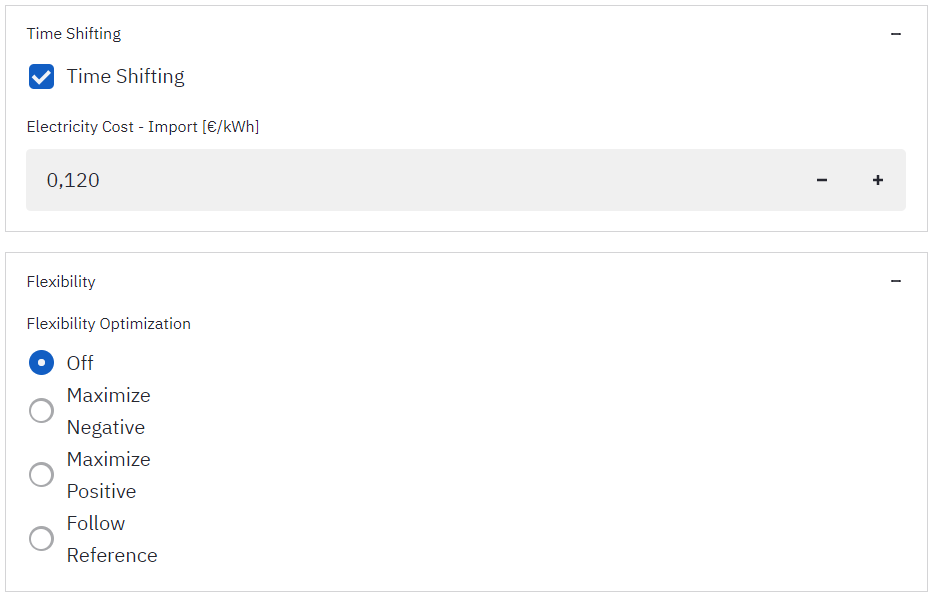
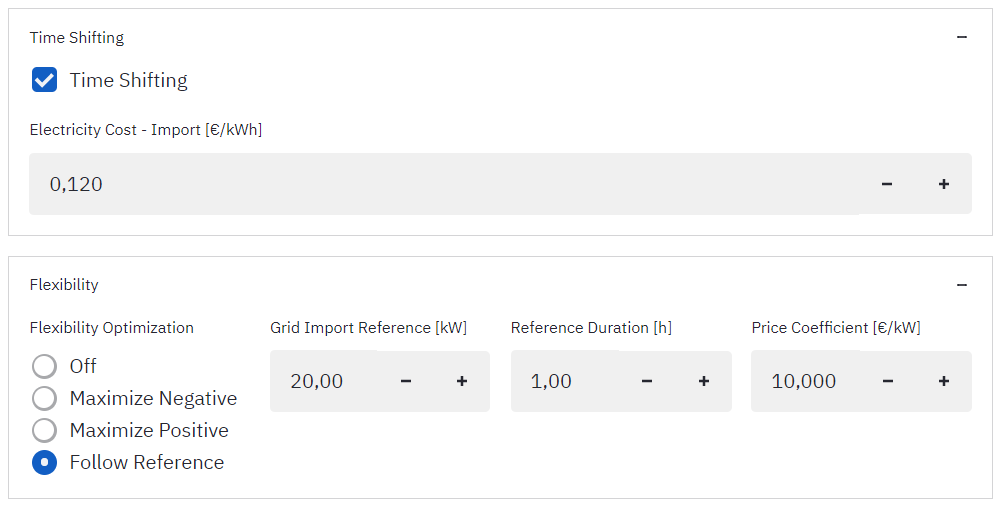
optimization part 2

diff --git a/content/RTO.rst b/content/RTO.rst
@@ -10,7 +10,7 @@ Predictive control optimize system performance over receding horizon of given le
 
 .. image:: /images/opt_horizon.PNG
 
-Here is option to choose from external optimization solvers. Solvers are responsible for computation and they may differ in the speed of finding a solution. SoC formulation is related to how the battery constraints are formulated. Convex relaxation keeps optimizarion problem in linear form, which is easiliy solvable. Binary formulation introduce binary variables necessary because of nonlinear nature of the battery loses, turning the optimization into the mixed-integer programming problem. This makes results more precise, but comes with higher computational costs.
+Here is option to choose from external optimization solvers. Solvers are responsible for computation and they may differ in the speed of finding a solution. SoC formulation is related to how the battery constraints are formulated. Convex relaxation keeps optimization problem in linear form, which is easiliy solvable. Binary formulation introduce binary variables necessary because of nonlinear nature of the battery loses, turning the optimization into the mixed-integer programming problem. This makes results more precise, but comes with higher computational costs.
 
 .. image:: /images/opt_solver.PNG
 
@@ -20,26 +20,36 @@ At the bottom is checkbox, which if selected allowes battery to be charged form 
 
 .. image:: /images/opt_battery.PNG
 
-Feed
+It depends on grid connection whether feed-ins and selling energy into the utility grid are allowed, this parameter is configurable and fully optional. It is possible to adjust feed-in tariffs, bonuses and track the reference, if desired.
 
 .. image:: /images/opt_feedin.PNG
 
-
+The microgrid can also contain and utilize a combined heat and power (CHP) unit. All necessary technical (power, range, constraints) and economical (prices, costs) parameters of the CHP unit are adjusted here.
 
 .. image:: /images/opt_CHP.PNG
 
-
+One of the main functionalities of the battery storage in the microgrid is peak-shaving. The microgrid controller follows given capacity cap to not be exceeded. The battery will be discharged above the cap to reduce the grid import, if has enough energy. The incomming peaks are predicted with :ref:`load forecasting <load-forecast>` model, which is trained on history data.
 
 .. image:: /images/opt_cap.PNG
 
-
+It is possible to shift electricity consumption form times of high demands to when there is surplus of the energy. Flexibility is an optional function, the microgid is capable of providing this service by following given reference when needed.
 
 .. image:: /images/opt_flex.PNG
 
-
+Before running optimization, the user can check current measured values of PV, load and battery and press run.
 
 .. image:: /images/opt_measurement.PNG
 
 
 Visualization
 ~~~~~~~~~~~~~
+
+The results of optimization are shown in the graphs.
+
+.. image:: /images/opt_plot_load.PNG
+
+.. image:: /images/opt_plot_mix.PNG
+
+.. image:: /images/opt_plot_battery.PNG
+
+

diff --git a/content/forecasts.rst b/content/forecasts.rst
@@ -26,6 +26,7 @@ Here is evaluated precision of the forecasts. Historical predictions are compare
 
 .. image:: /images/forecast_compare.PNG
 
+.. _load-forecast:
 
 Local Load Forecast
 ~~~~~~~~~~~~~~~~~~~
